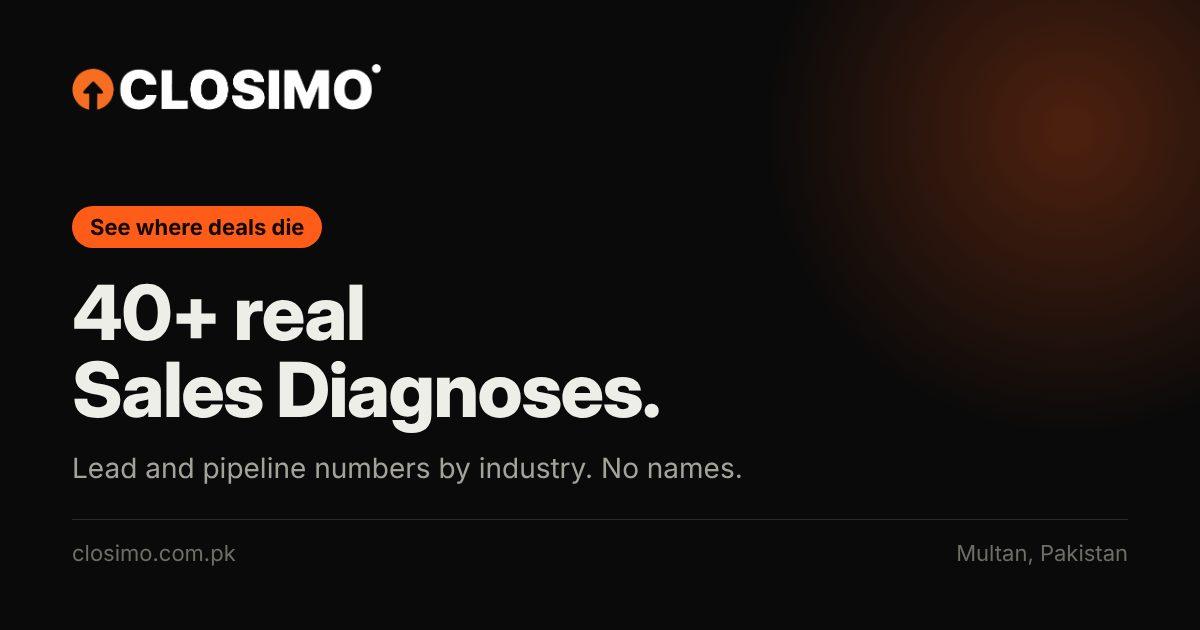
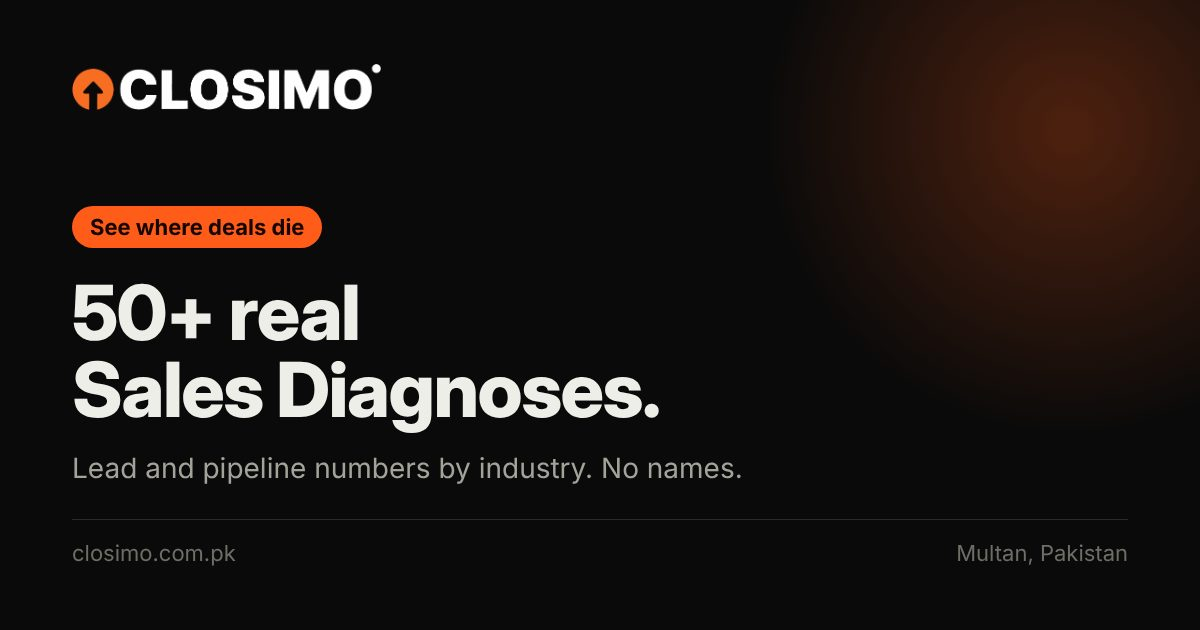
Update 40+ to 50+ diagnoses across site and share image
Claude-Session: https://claude.ai/code/session_01Pr6845vrpvXYpQ3MDGyMgd

Changed region(s): [[0.0617, 0.4524, 0.3083, 0.5429]]

diff --git a/findings/index.html b/findings/index.html
@@ -9,16 +9,16 @@
   <meta property="og:type" content="website">
   <meta property="og:url" content="https://closimo.com.pk/findings/">
   <meta property="og:title" content="Sales Diagnoses | CLOSIMO">
-  <meta property="og:description" content="40+ businesses diagnosed since July 2026. Real lead and pipeline numbers by industry, from CLOSIMO Sales Diagnosis calls.">
-  <meta property="og:image" content="https://closimo.com.pk/images/og-findings.jpg">
+  <meta property="og:description" content="50+ businesses diagnosed since July 2026. Real lead and pipeline numbers by industry, from CLOSIMO Sales Diagnosis calls.">
+  <meta property="og:image" content="https://closimo.com.pk/images/og-findings.jpg?v=50">
   <meta property="og:image:width" content="1200">
   <meta property="og:image:height" content="630">
   <meta property="og:image:alt" content="Sales Diagnoses | CLOSIMO">
   <meta name="twitter:card" content="summary_large_image">
   <meta name="twitter:title" content="Sales Diagnoses | CLOSIMO">
-  <meta name="twitter:description" content="40+ businesses diagnosed since July 2026. Real lead and pipeline numbers by industry, from CLOSIMO Sales Diagnosis calls.">
-  <meta name="twitter:image" content="https://closimo.com.pk/images/og-findings.jpg">
-  <meta name="description" content="40+ businesses diagnosed since July 2026. Real lead and pipeline numbers by industry, from CLOSIMO Sales Diagnosis calls.">
+  <meta name="twitter:description" content="50+ businesses diagnosed since July 2026. Real lead and pipeline numbers by industry, from CLOSIMO Sales Diagnosis calls.">
+  <meta name="twitter:image" content="https://closimo.com.pk/images/og-findings.jpg?v=50">
+  <meta name="description" content="50+ businesses diagnosed since July 2026. Real lead and pipeline numbers by industry, from CLOSIMO Sales Diagnosis calls.">
   <link rel="canonical" href="https://closimo.com.pk/findings/">
   <link rel="icon" href="../favicon-orange.png" type="image/png">
   <link rel="preconnect" href="https://fonts.googleapis.com">
@@ -51,7 +51,7 @@
   <section class="fh">
     <a class="back" href="../">← Back to home</a>
     <p class="small">Sales Diagnoses</p>
-    <h1>40+ businesses we diagnosed since July 2026.</h1>
+    <h1>50+ businesses we diagnosed since July 2026.</h1>
     <p>The sharpest of them, by sector. Their numbers in their words, where the deals die, what it costs, and our verdict. Industry only, because every client is under NDA.</p>
   </section>
   <section class="s fsel" id="all">

diff --git a/index.html b/index.html
@@ -63,7 +63,7 @@
 </head>
 
 <body class="v2">
-<a class="tbar" href="#findings"><span><b>40+ real Sales Diagnosis findings</b></span><em>See them</em></a>
+<a class="tbar" href="#findings"><span><b>50+ real Sales Diagnosis findings</b></span><em>See them</em></a>
 <header><div class="wrap nav">
   <img class="brand" src="images/closimo-logo.webp" alt="CLOSIMO" width="202" height="30">
   <nav class="pnav" aria-label="Main"><a href="about/">About Us</a><a href="findings/">Sales Diagnoses</a><a href="#results">Case Studies</a><a href="#start">Pricing</a><a href="#faq">FAQ</a></nav>
@@ -112,7 +112,7 @@
       </div>
       <div class="rt"><span class="lw"><svg class="lico" viewBox="0 0 24 24" aria-hidden="true" fill="none" stroke="currentColor" stroke-width="2" stroke-linecap="round" stroke-linejoin="round"><path d="m22 17-8.5-8.5-5 5L2 7"/><path d="M16 17h6v-6"/></svg>Gross profit lost a year</span><strong>PKR 3 crore or more</strong></div>
     <a class="rgo" href="#start" data-go="diagnosis">Same leak in your team? <b>Free diagnosis</b> <span aria-hidden="true">→</span></a></article></div>
-    <a class="allp" href="findings/">See 40+ businesses we diagnosed</a>
+    <a class="allp" href="findings/">See 50+ businesses we diagnosed</a>
   </section>
 
   <section class="s" id="problems">

diff --git a/docs/findings_generator.py b/docs/findings_generator.py
@@ -26,7 +26,7 @@ total=sum(len(fs) for _,fs in D)
 sec='''  <section class="fh">
     <a class="back" href="../">← Back to home</a>
     <p class="small">Sales Diagnoses</p>
-    <h1>40+ businesses we diagnosed since July 2026.</h1>
+    <h1>50+ businesses we diagnosed since July 2026.</h1>
     <p>The sharpest of them, by sector. Their numbers in their words, where the deals die, what it costs, and our verdict. Industry only, because every client is under NDA.</p>
   </section>
   <section class="s fsel" id="all">
